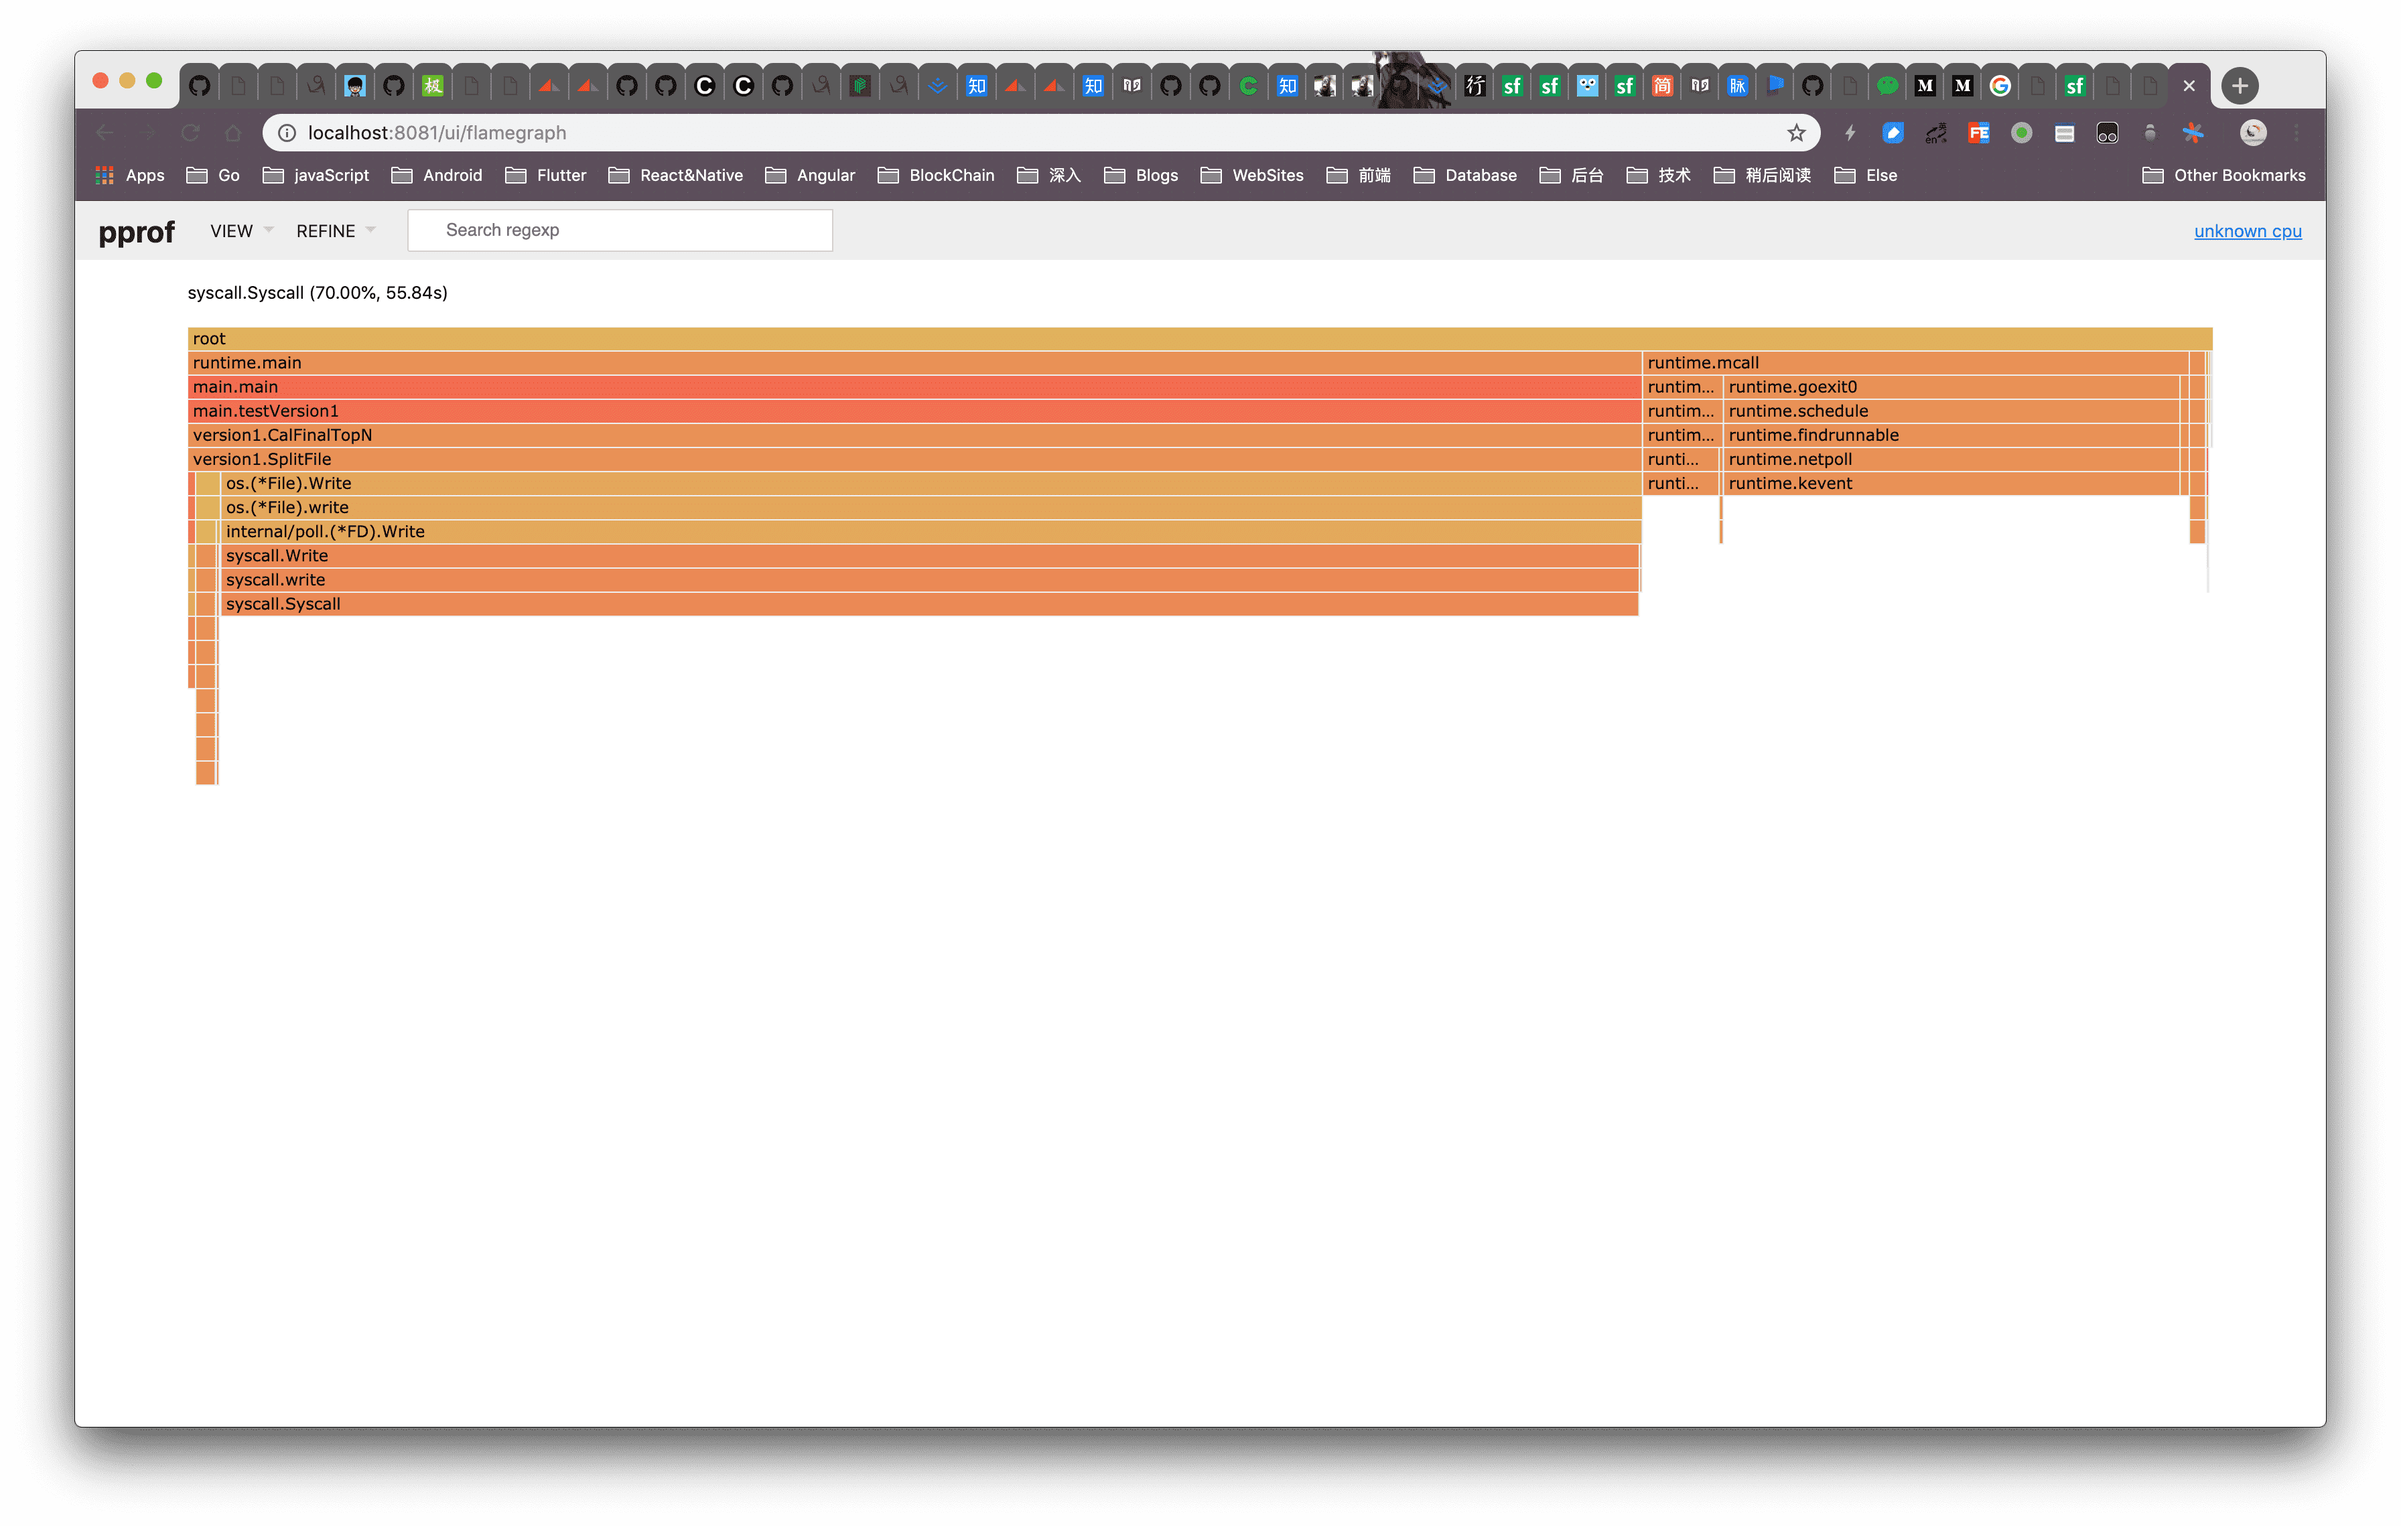
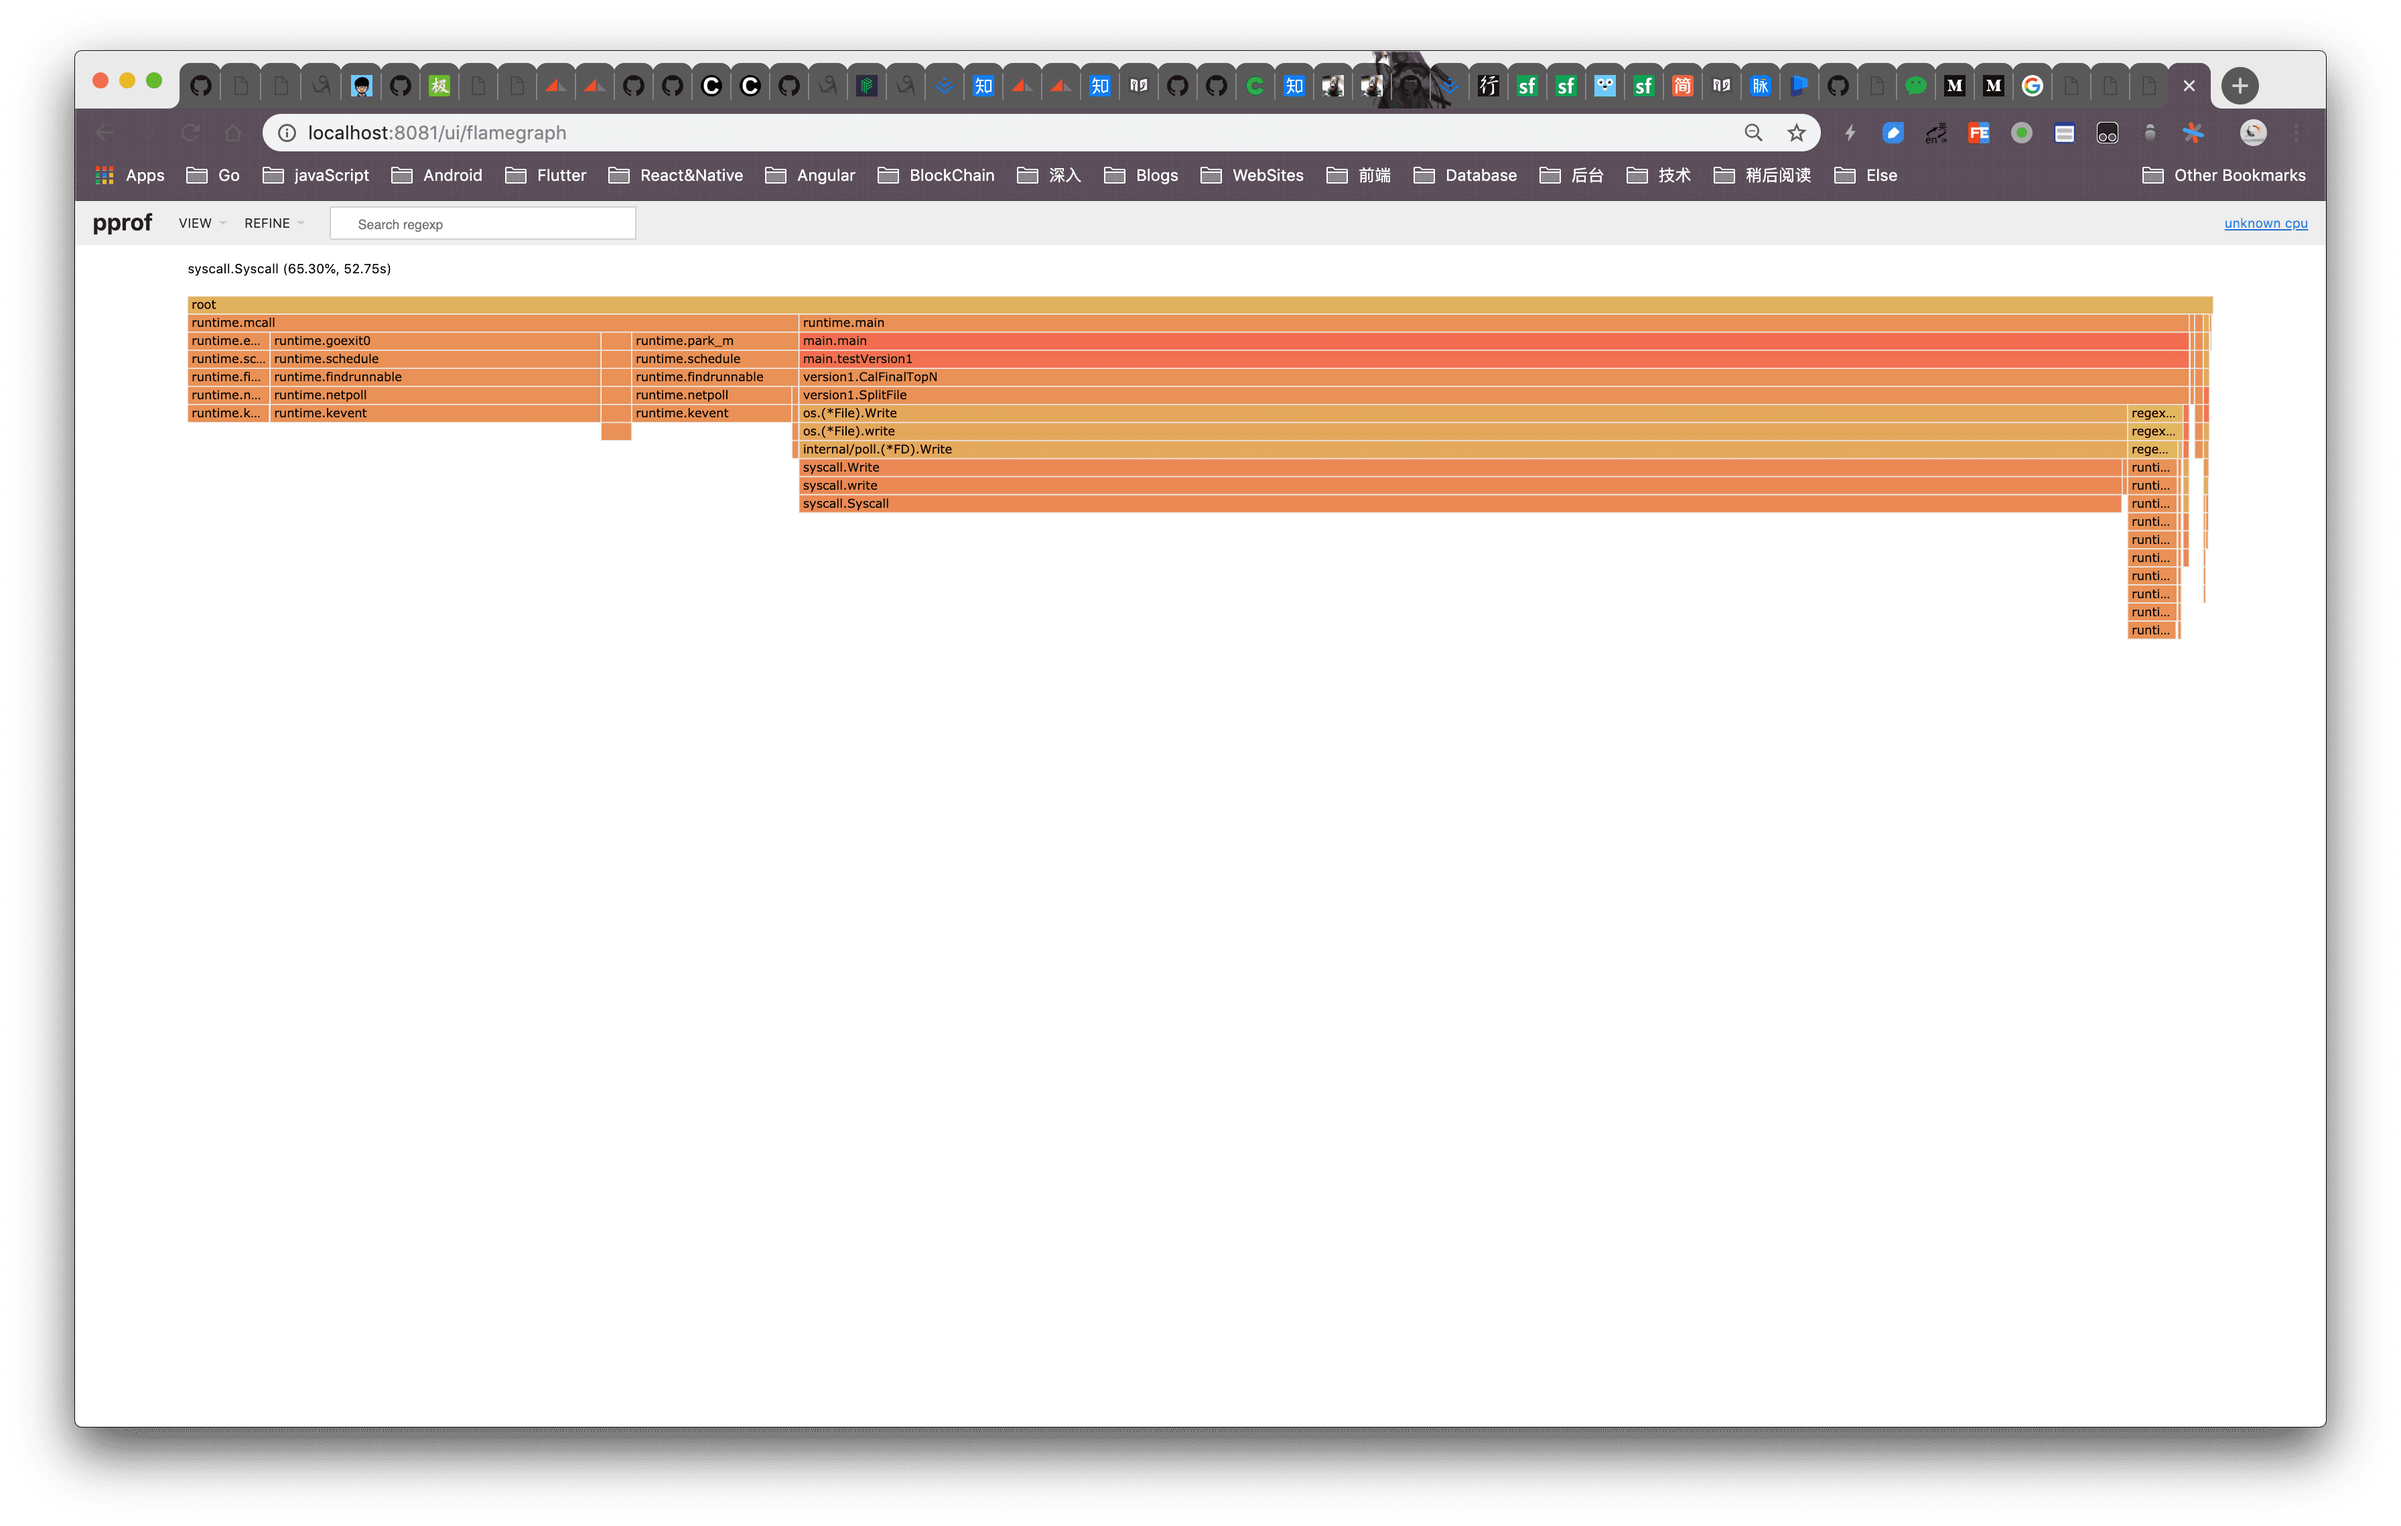
add readme

diff --git a/segment/one/main.go b/segment/one/main.go
@@ -3,13 +3,12 @@ package main
 import (
 	"flag"
 	"log"
-	"time"
 	"net/http"
+	"time"
 
 	_ "github.com/mkevac/debugcharts"
 	_ "net/http/pprof"
 
-	"github.com/wangriyu/DawnBlossoms/segment/one/version1"
 	"github.com/wangriyu/DawnBlossoms/segment/one/version2"
 )
 
@@ -31,8 +30,8 @@ func main() {
 	}
 
 	if len(*filePath) > 0 {
-		testVersion1(*filePath)
-		// testVersion2(*filePath)
+		// testVersion1(*filePath)
+		testVersion2(*filePath)
 	} else {
 		log.Fatalln("file arguments not found")
 	}
@@ -55,19 +54,19 @@ func testVersion2(filepath string) {
 	}
 }
 
-func testVersion1(filepath string) {
-	start := time.Now()
-	log.Println("v1 start: ", start.String())
-
-	defer func() {
-		end := time.Now()
-		log.Println("v1 end: ", end.String())
-		log.Println("v1 duration: ", end.Sub(start).String())
-	}()
-
-	if topHundred, err := version1.CalFinalTopN(filepath); err != nil {
-		log.Fatalln(err)
-	} else {
-		log.Println("v1 result: ", topHundred)
-	}
-}
+// func testVersion1(filepath string) {
+// 	start := time.Now()
+// 	log.Println("v1 start: ", start.String())
+//
+// 	defer func() {
+// 		end := time.Now()
+// 		log.Println("v1 end: ", end.String())
+// 		log.Println("v1 duration: ", end.Sub(start).String())
+// 	}()
+//
+// 	if topHundred, err := version1.CalFinalTopN(filepath); err != nil {
+// 		log.Fatalln(err)
+// 	} else {
+// 		log.Println("v1 result: ", topHundred)
+// 	}
+// }

diff --git a/segment/one/version2/logic.go b/segment/one/version2/logic.go
@@ -15,8 +15,8 @@ import (
 )
 
 const (
-	SplitFileNum = 20 // the split files number
-	TopN         = 10
+	SplitFileNum = 200 // the split files number
+	TopN         = 100
 )
 
 type SplitObj struct {
@@ -113,9 +113,6 @@ func SplitFile(filepath string) {
 				wg.Done()
 				// if err := recover(); err != nil {
 				// 	log.Println(err)
-				// 	if e , ok := err.(error); ok {
-				// 		errCh <- e
-				// 	}
 				// }
 			}()
 			for {
@@ -146,18 +143,14 @@ func produceMsg(cancel context.CancelFunc, filepath string, eofCh chan bool) {
 	// defer func() {
 	// 	if err := recover(); err != nil {
 	// 		log.Println(err)
-	// 		if e , ok := err.(error); ok {
-	// 			errCh <- e
-	// 		}
 	// 		cancel()
 	// 	}
 	// }()
 
 	file, err := os.Open(filepath)
 	if err != nil {
-		log.Println(err)
+		log.Println("Failed to open "+filepath, err)
 		panic(err)
-		return
 	}
 	defer file.Close()
 
@@ -165,14 +158,11 @@ func produceMsg(cancel context.CancelFunc, filepath string, eofCh chan bool) {
 	for {
 		line, _, err := buf.ReadLine()
 		if err != nil {
-			log.Println(err)
 			if err == io.EOF {
 				close(eofCh)
 				return
 			}
 			panic(err)
-			cancel()
-			return
 		}
 		if matchedAlice := regForURL.FindAll(line, -1); len(matchedAlice) > 0 {
 			for _, v := range matchedAlice {

diff --git a/segment/one/version1/logic.go b/segment/one/version1/logic.go
@@ -12,8 +12,8 @@ import (
 )
 
 const (
-	SplitFileNum = 20 // the split files number
-	TopN         = 10
+	SplitFileNum = 200 // the split files number
+	TopN         = 100
 )
 
 type SplitObj struct {
@@ -82,7 +82,7 @@ func CalFinalTopN(filepath string) ([]UrlObj, error) {
 		}
 		topN = append(topN, max)
 	}
-	log.Println("v2 calTopN: ", time.Now().Sub(t1).String())
+	log.Println("v1 calTopN: ", time.Now().Sub(t1).String())
 
 	return topN, nil
 }

diff --git a/segment/one/README.md b/segment/one/README.md
@@ -1,1 +1,104 @@
-### find Top100 urls in an 100GB file with a 1GB memory machine(limit)
+## find Top100 urls in an 100GB file with 1GB memory limited machine
+
+### Test environment
+
+MacBook Pro (Mid 2015), OSX 10.14.1, 2.5 GHz Intel Core i7, 16 GB 1600 MHz DDR3
+
+### Test sample
+
+```dash
+$  du -sh generateLog/test.log
+  992M    generateLog/test.log
+$ wc -l generateLog/test.log
+  40000000 generateLog/test.log
+```
+
+### Test duration
+
+### version1
+
+- rehash file: 7min
+
+![ver1_1](image/ver1_rehash.png)
+
+- calTopN: 15s
+
+![ver1_2](image/ver1_calTopN.png)
+
+- result
+
+![ver1_result](image/ver1_result.png)
+
+- pprof
+
+rehash profile(60s):
+
+![ver1_rehash_flamegraph](image/ver1_rehash_flamegraph.png)
+
+![ver1_rehash_top](image/ver1_rehash_top.png)
+
+memory:
+
+![ver1_mem](image/ver1_memory.png)
+
+### version2
+
+- rehash file: 2min
+
+![ver2_rehash](image/ver2_rehash.png)
+
+- calTopN: 5s
+
+- result
+
+![ver2_result](image/ver2_result.png)
+
+- pprof
+
+rehash profile(60s):
+
+![ver2_rehash_flamegraph](image/ver2_rehash_flamegraph.png)
+
+memory:
+
+![ver2_mem](image/ver2_memory.png)
+
+### 改动
+
+在 v1 的基础上，改进了一部分代码逻辑，比如固定长的最小堆，当元素满的时候，如果添加新元素，原先的逻辑是先 pop 再 push，这里面涉及到两次调整，v2 改为直接找新元素的插入位置，只调整一次。
+
+还有原先堆排序时将 pop 出的元素放在另一个 list 中，v2 改为将 pop 的元素放到 heap.tree 的末尾，这样 pop 完时原序列变成降序数组，不用额外一份空间。
+
+然后根据 v1 的分析结果，优化了 rehash 和 capTopN 的过程，并行处理。
+
+原先 v1 耗时主要在 rehash 上，而且都耗在系统调用上，下面这段函数每次 ReadLine 后需要 Write file，这里阻塞会影响性能，v2 把写逻辑放到另外的协程处理，通过缓冲 channel 和一个文件一个写协程加速整个 rehash 过程，原本还想把源文件的读取也并行化，暂时还没添加这部分逻辑。
+
+```go
+// v1 SplitFile rehash
+buf := bufio.NewReader(file)
+for {
+    line, _, err := buf.ReadLine()
+    if err != nil {
+        if err == io.EOF {
+            return nil
+        }
+        return err
+    }
+    if matchedAlice := regForURL.FindAll(line, -1); len(matchedAlice) > 0 {
+        for _, v := range matchedAlice {
+            key := Hash(v) % SplitFileNum
+            if _, err := SplitFiles[key].File.Write(append(v, '\n')); err != nil {
+                log.Println(err)
+            }
+        }
+    }
+}
+```
+
+rehash 完成后 v1 的 CalTopNPerFile 逻辑是逐一处理，v2 改为并行处理，但是因为并行，每个协程栈内存是之前的几倍，所以 v2 需要扩大 SplitFileNum，以减少每个文件处理需要的内存
+
+本次优化主要针对时间上的优化，内存的优化还待测试，因为测试数据比较平均，导致每个 url 重复概率比较小，每个文件对应的计数哈希表内存占用比较大
+
+如果考虑实际情况，url 重复概率比较大，相应的哈希表条目就比较少
+
+如果考虑最坏情况，每个 url 只出现一次，那哈希表的内存需求可能比文件本身还大，这种情况可能需要切分的更细
